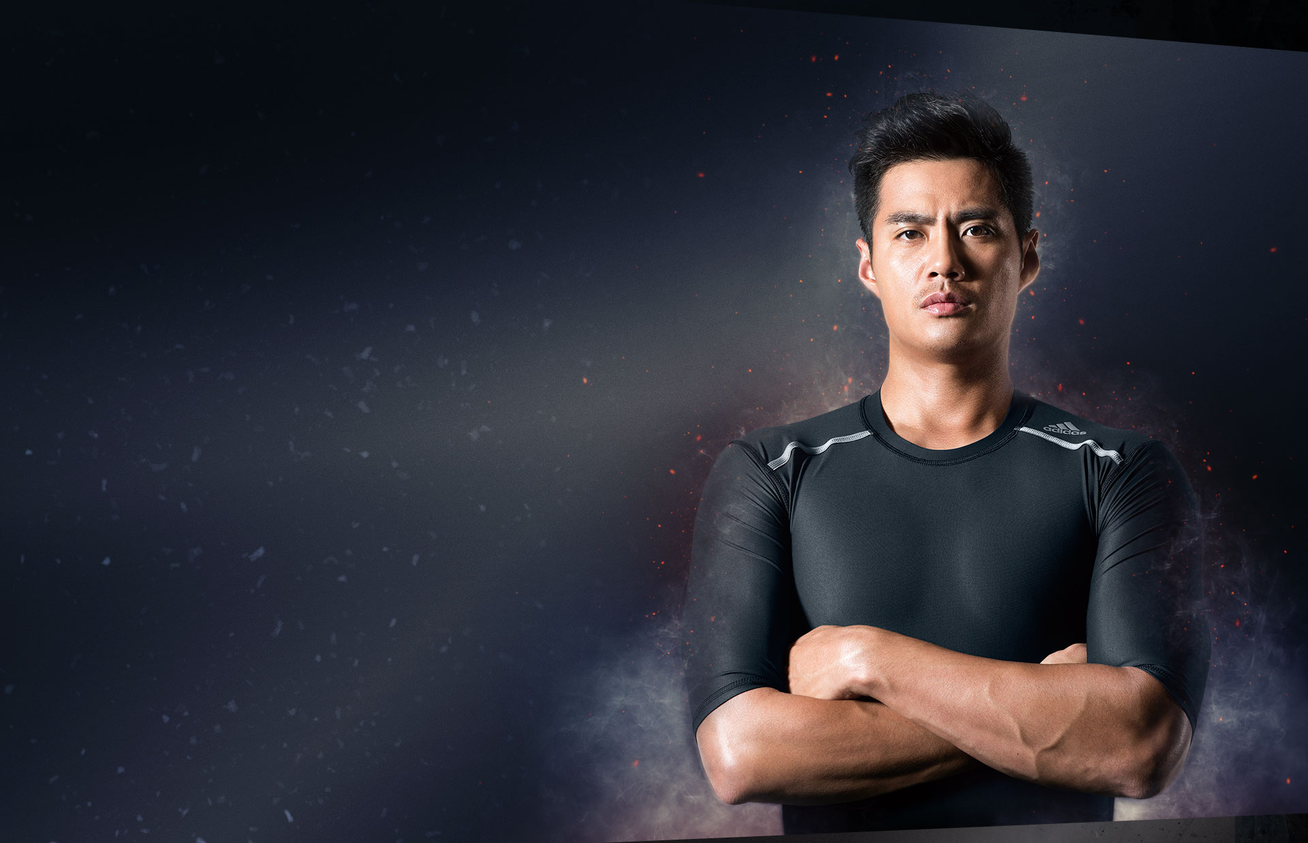
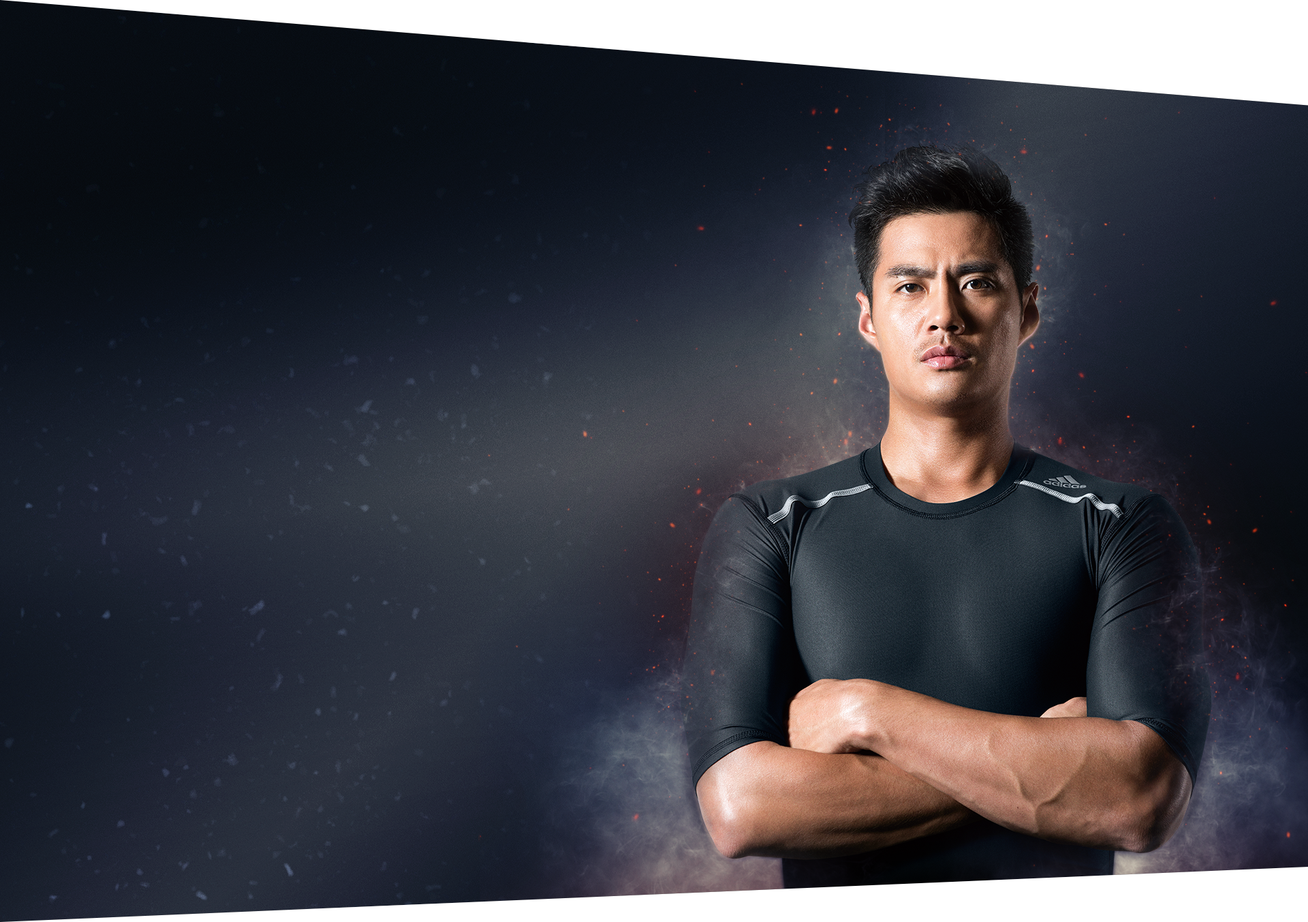
remove unuse images

Changed region(s): [[0.0312, 0.7367, 1.0, 1.0], [0.5312, 0.1228, 0.875, 0.6753], [0.0312, 0.0, 1.0, 0.1228]]

diff --git a/app/index.html b/app/index.html
@@ -88,7 +88,7 @@
           <figure class="scroll visible-xs" data-src="img/home/scroll-hint@2x.png"></figure>
         </section>
         <article class="lin">
-          <figure class="background hidden-xs" data-src="img/home/lin/background.jpg"></figure>
+          <figure class="background hidden-xs" data-src="img/home/lin/background.png"></figure>
           <figure class="background visible-xs" data-src="img/home/lin/background@2x.png"></figure>
           <aside class="parallax">
             <aside class="layer headline" data-depth="0.01">
@@ -130,7 +130,7 @@
           </aside>
         </article>
         <article class="chen">
-          <figure class="background hidden-xs" data-src="img/home/chen/background.jpg"></figure>
+          <figure class="background hidden-xs" data-src="img/home/chen/background.png"></figure>
           <figure class="background visible-xs" data-src="img/home/chen/background@2x.png"></figure>
           <aside class="parallax">
             <aside class="layer headline" data-depth="0.01">
@@ -173,7 +173,7 @@
           </aside>
         </article>
         <article class="lu">
-          <figure class="background hidden-xs" data-src="img/home/lu/background.jpg"></figure>
+          <figure class="background hidden-xs" data-src="img/home/lu/background.png"></figure>
           <figure class="background visible-xs" data-src="img/home/lu/background@2x.png"></figure>
           <aside class="parallax">
             <aside class="layer headline" data-depth="0.01">

diff --git a/app/css/layouts/_home.scss b/app/css/layouts/_home.scss
@@ -119,11 +119,12 @@
 
 	.lin, .lu, .chen{
 		overflow: hidden;
-		@include Item(1920, 1200, 0, 0, 0, 0, 1920, 'fit', 'relative');
+		@include Item(1920, 1277, 0, 0, 0, 0, 1920, 'fit', 'relative');
 		.background{
 			@include SubItem();
 			background-position: center;
 			background-size: cover;
+			background-color: #000;
 		}
 		.parallax{
 			@include SubItem();
@@ -227,7 +228,7 @@
 			}
 		}
 		&.lu{
-			@include Item(1920, 1213, 0, 0, 0, 0, 1920, 'fit', 'relative');
+			@include Item(1920, 1256, -81, 0, 0, 0, 1920, 'fit', 'relative');
 			@media screen and (max-width: #{$screen-xs - 1}) {
 				@include Item(750, 2577, -77, 0, 0, 0, 750,'fit','relative');
 			}
@@ -241,7 +242,7 @@
 			}
 		}
 		&.chen{
-			@include Item(1920, 1238, -1, 0, 0, 0, 1920, 'fit', 'relative');
+			@include Item(1920, 1353, -156, 0, 0, 0, 1920, 'fit', 'relative');
 			@media screen and (max-width: #{$screen-xs - 1}) {
 				@include Item(750, 2628, -79, 0, 0, 0, 750,'fit','relative');
 				.pic-1{
